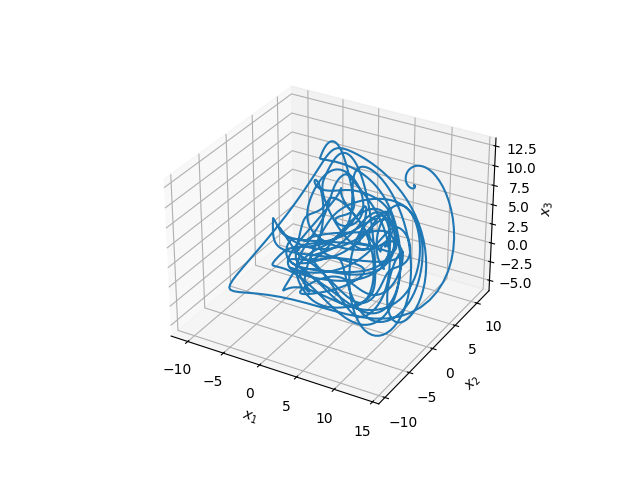
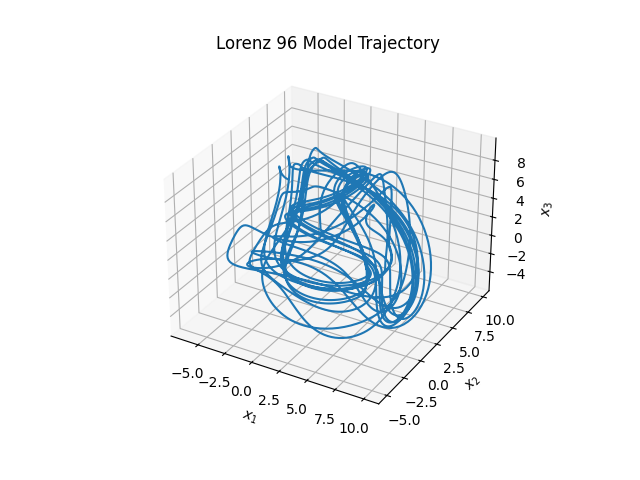
new maps added and  api bug fix

diff --git a/chaos_app/views.py b/chaos_app/views.py
@@ -266,36 +266,7 @@ def complex_squaring(z):
     imag_part = 2 * z.real * z.imag
     return complex(real_part, imag_part)
 
-@csrf_exempt
-def arnoldcat_map_api(request):
-    if request.method == 'POST':
-        # Parse JSON data
-        body_unicode = request.body.decode('utf-8')
-        body = json.loads(body_unicode)
 
-        # Get image data and parameters
-        image_data = body.get('image_data')
-        iterations = int(body.get('iterations', 1))
-        keep_all = bool(body.get('keep_all', False))
-
-        # Save the uploaded image temporarily
-        temp_image_path = 'chaos_app/temp_image.png'
-        image_content = ContentFile(image_data.encode('utf-8'))
-        path = default_storage.save(temp_image_path, image_content)
-
-        # Perform the transformation
-        result_image = arnoldcat_map(path, iterations, keep_all)
-
-        # Save the result image
-        result_image_path = os.path.join('chaos_app', 'maps', 'ikeda_attractor.png')
-        result_image.save(result_image_path)
-
-        # Return the saved file relative path
-        plot_url = os.path.join('chaos_app', 'maps', 'ikeda_attractor.png')
-        return JsonResponse({'plot_url': plot_url})
-
-    else:
-        return JsonResponse({'error': 'Only POST requests are supported for this endpoint.'}, status=400)
 #*
 @csrf_exempt
 def generate_and_save_bernoulli_map(request):
@@ -323,7 +294,7 @@ def generate_and_save_bernoulli_map(request):
         return JsonResponse({'plot_url': plot_url})
     else:
         return JsonResponse({'error': 'Only POST requests are supported for this endpoint.'}, status=400)
-#*
+
 @csrf_exempt
 def generate_and_save_L96_trajectory(request):
     if request.method == 'POST':
@@ -331,11 +302,29 @@ def generate_and_save_L96_trajectory(request):
         body_unicode = request.body.decode('utf-8')
         body = json.loads(body_unicode)
 
-        # Parametreleri al
+        # Model parametrelerini al
         N = int(body.get('N', 5))
-        F = float(body.get('F', 8))
-        x0 = body.get('x0', None)
-        t_range = body.get('t_range', [0.0, 30.0, 0.01])
+        F = float(body.get('F', 8.0))
+        t_start = float(body.get('t_start', 0.0))
+        t_end = float(body.get('t_end', 30.0))
+        t_step = float(body.get('t_step', 0.01))
+
+        # Başlangıç koşullarını al
+        x0 = body.get('x0', [F] * N)
+        if len(x0) != N:
+            return JsonResponse({'error': 'Length of x0 must be equal to N'}, status=400)
+
+        # Lorenz 96 modelini tanımla
+        def L96(x, t):
+            d = np.zeros(N)
+            for i in range(N):
+                d[i] = (x[(i + 1) % N] - x[i - 2]) * x[i - 1] - x[i] + F
+            return d
+
+        t = np.arange(t_start, t_end, t_step)  # Zaman dizisini oluştur
+
+        # ODE'yi çöz
+        x = odeint(L96, x0, t)
 
         # Dosya yolu
         file_path = os.path.join('chaos_app', 'maps', 'L96_trajectory.png')
@@ -344,30 +333,69 @@ def generate_and_save_L96_trajectory(request):
         if os.path.exists(file_path):
             os.remove(file_path)
 
-        # L96 modelini çiz ve dosyaya kaydet
-        plot_L96_trajectory(N=N, F=F, x0=x0, t_range=t_range, file_path=file_path)
+        # 3D plot oluştur ve dosyaya kaydet
+        fig = plt.figure()
+        ax = fig.add_subplot(projection="3d")
+        ax.plot(x[:, 0], x[:, 1], x[:, 2])
+        ax.set_xlabel("$x_1$")
+        ax.set_ylabel("$x_2$")
+        ax.set_zlabel("$x_3$")
+        plt.title("Lorenz 96 Model Trajectory")
+        plt.savefig(file_path)
+        plt.close()
 
-        # Kaydedilen dosyanın göreli dosya yolunu döndür
+        # Kaydedilen dosyanın URL'sini döndür
         plot_url = os.path.join('chaos_app', 'maps', 'L96_trajectory.png')
         return JsonResponse({'plot_url': plot_url})
     else:
         return JsonResponse({'error': 'Only POST requests are supported for this endpoint.'}, status=400)
 
+
 @csrf_exempt
-def lorenz_map(request):
-    # Lorenz çekicisini çiz
-    image_path = os.path.join(settings.MEDIA_ROOT, 'maps', 'map.png')
-    lorenz_plt()
-    
-    # Grafik dosyasını kaydet
-    plt.savefig(image_path)
-    plt.close()
+def generate_and_save_henon_map(request):
+    if request.method == 'POST':
+        # JSON verisini al
+        body_unicode = request.body.decode('utf-8')
+        body = json.loads(body_unicode)
 
-    # Oluşturulan dosyanın URL'ini döndür
-    image_url = request.build_absolute_uri(settings.MEDIA_URL + 'maps/map.png')
-    return JsonResponse({'url': image_url})
+        # Parametreleri al
+        x0 = float(body.get('x0', 0.1))
+        y0 = float(body.get('y0', 0.1))
+        a = float(body.get('a', 1.4))
+        b = float(body.get('b', 0.3))
+        num_iterations = int(body.get('num_iterations', 10000))
 
+        # Dosya yolu
+        directory = os.path.join('chaos_app', 'maps')
+        file_path = os.path.join(directory, 'henon_map.png')
 
+        # Eğer dosya dizini yoksa oluştur
+        if not os.path.exists(directory):
+            os.makedirs(directory)
+
+        # Henon Map'i oluştur ve kaydet
+        x = np.zeros(num_iterations)
+        y = np.zeros(num_iterations)
+        x[0], y[0] = x0, y0
+
+        # Iterate Henon map equations
+        for n in range(1, num_iterations):
+            x[n] = 1 - a * x[n - 1] ** 2 + y[n - 1]
+            y[n] = b * x[n - 1]
+
+        plt.figure(figsize=(10, 6))
+        plt.plot(x, y, ',k', alpha=0.5)
+        plt.title("Henon Map")
+        plt.xlabel("$x$")
+        plt.ylabel("$y$")
+        plt.savefig(file_path)
+        plt.close()
+
+        # Kaydedilen dosyanın URL'sini döndür
+        plot_url =  os.path.join('chaos_app', 'maps', 'henon_map.png')
+        return JsonResponse({'plot_url': plot_url})
+    else:
+        return JsonResponse({'error': 'Only POST requests are supported for this endpoint.'}, status=400)
 @csrf_exempt
 def poincare_map(time_series, delay):
     poincare_points = []
@@ -440,7 +468,7 @@ def generate_and_save_gingerbread_man(request):
         plt.close()
 
         # Kaydedilen dosyanın URL'sini döndür
-        plot_url = request.build_absolute_uri(file_path)
+        plot_url = os.path.join('chaos_app', 'maps', 'gingerbread_man.png')
         return JsonResponse({'plot_url': plot_url})
     else:
         return JsonResponse({'error': 'Only POST requests are supported for this endpoint.'}, status=400)

diff --git a/chaos_app/urls.py b/chaos_app/urls.py
@@ -6,12 +6,12 @@ urlpatterns = [
     path('api/generate_and_save_logistic_map/', views.generate_and_save_logistic_map,
          name="generate_and_save_logistic_map"),
     path('api/generate_and_save_complex_squaring_map/', views.generate_and_save_complex_squaring_map, name='generate_and_save_complex_squaring_map'),
-    
-    path('api/arnoldcat_map/', views.arnoldcat_map_api, name='arnoldcat_map_api'),
+
+    path('api/henon_map/', views.generate_and_save_henon_map, name='generate_and_save_henon_map'),
+
     path('api/bernoulli_map/', views.generate_and_save_bernoulli_map, name='generate_and_save_bernoulli_map'),
     path('api/lorenz96_map/', views.generate_and_save_L96_trajectory, name='generate_and_save_L96_trajectory'),
 
-    path('api/lorenz_map/', views.lorenz_map, name='lorenz_map'),
     path('api/poincare_map/', views.poincare_map_view, name='poincare_map'),
     path('api/generate_and_save_tinkerbell_map/', views.generate_and_save_tinkerbell_map, name='generate_and_save_tinkerbell_map'),
     path('api/generate_logistic_map/', views.generate_and_save_logistic_map, name='generate_logistic_map'),

diff --git a/chaos_project/settings.py b/chaos_project/settings.py
@@ -57,6 +57,16 @@ MIDDLEWARE = [
 CORS_ALLOW_ALL_ORIGINS = True
 CORS_ALLOW_CREDENTIALS = True
 ROOT_URLCONF = 'chaos_project.urls'
+ALLOWED_HOSTS = [
+    'localhost',
+    '127.0.0.1',
+    '[::1]'
+]
+
+CSRF_TRUSTED_ORIGINS = [
+    'http://localhost:5173',
+]
+
 
 TEMPLATES = [
     {
